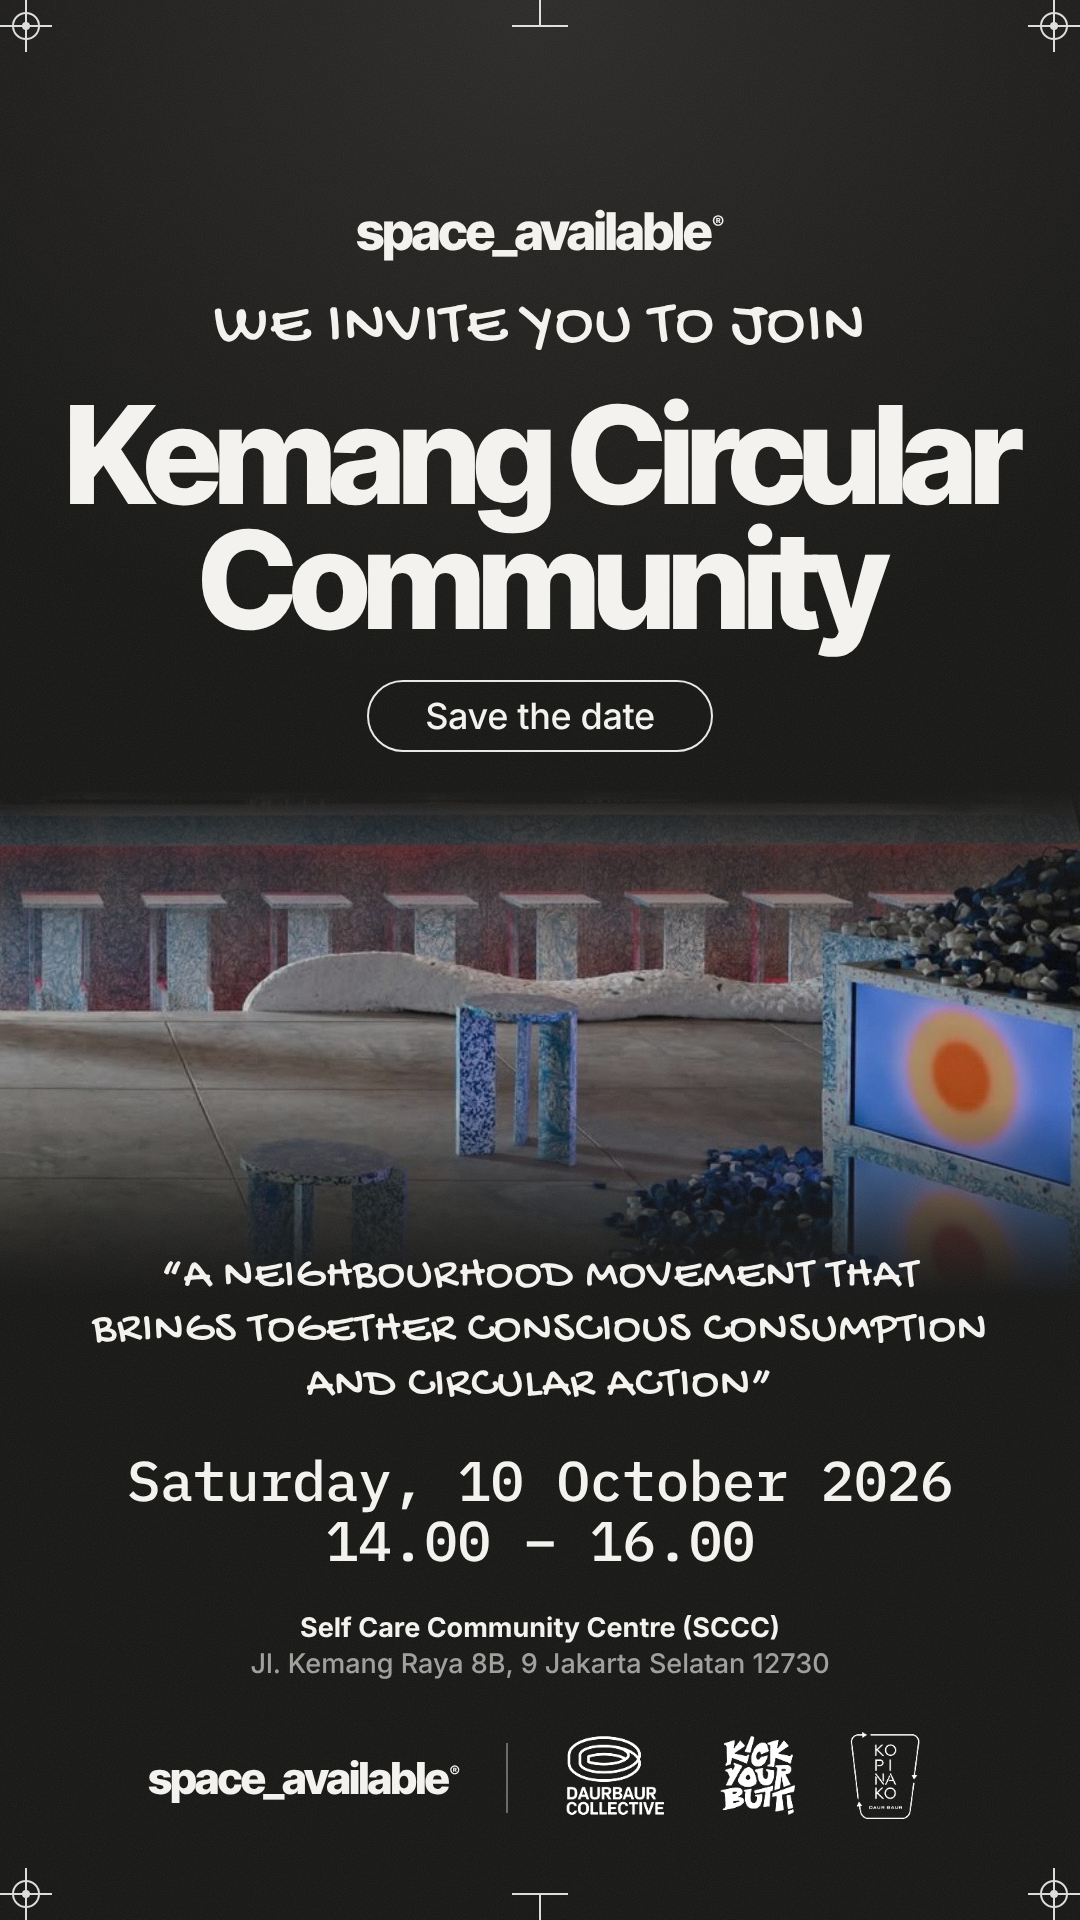
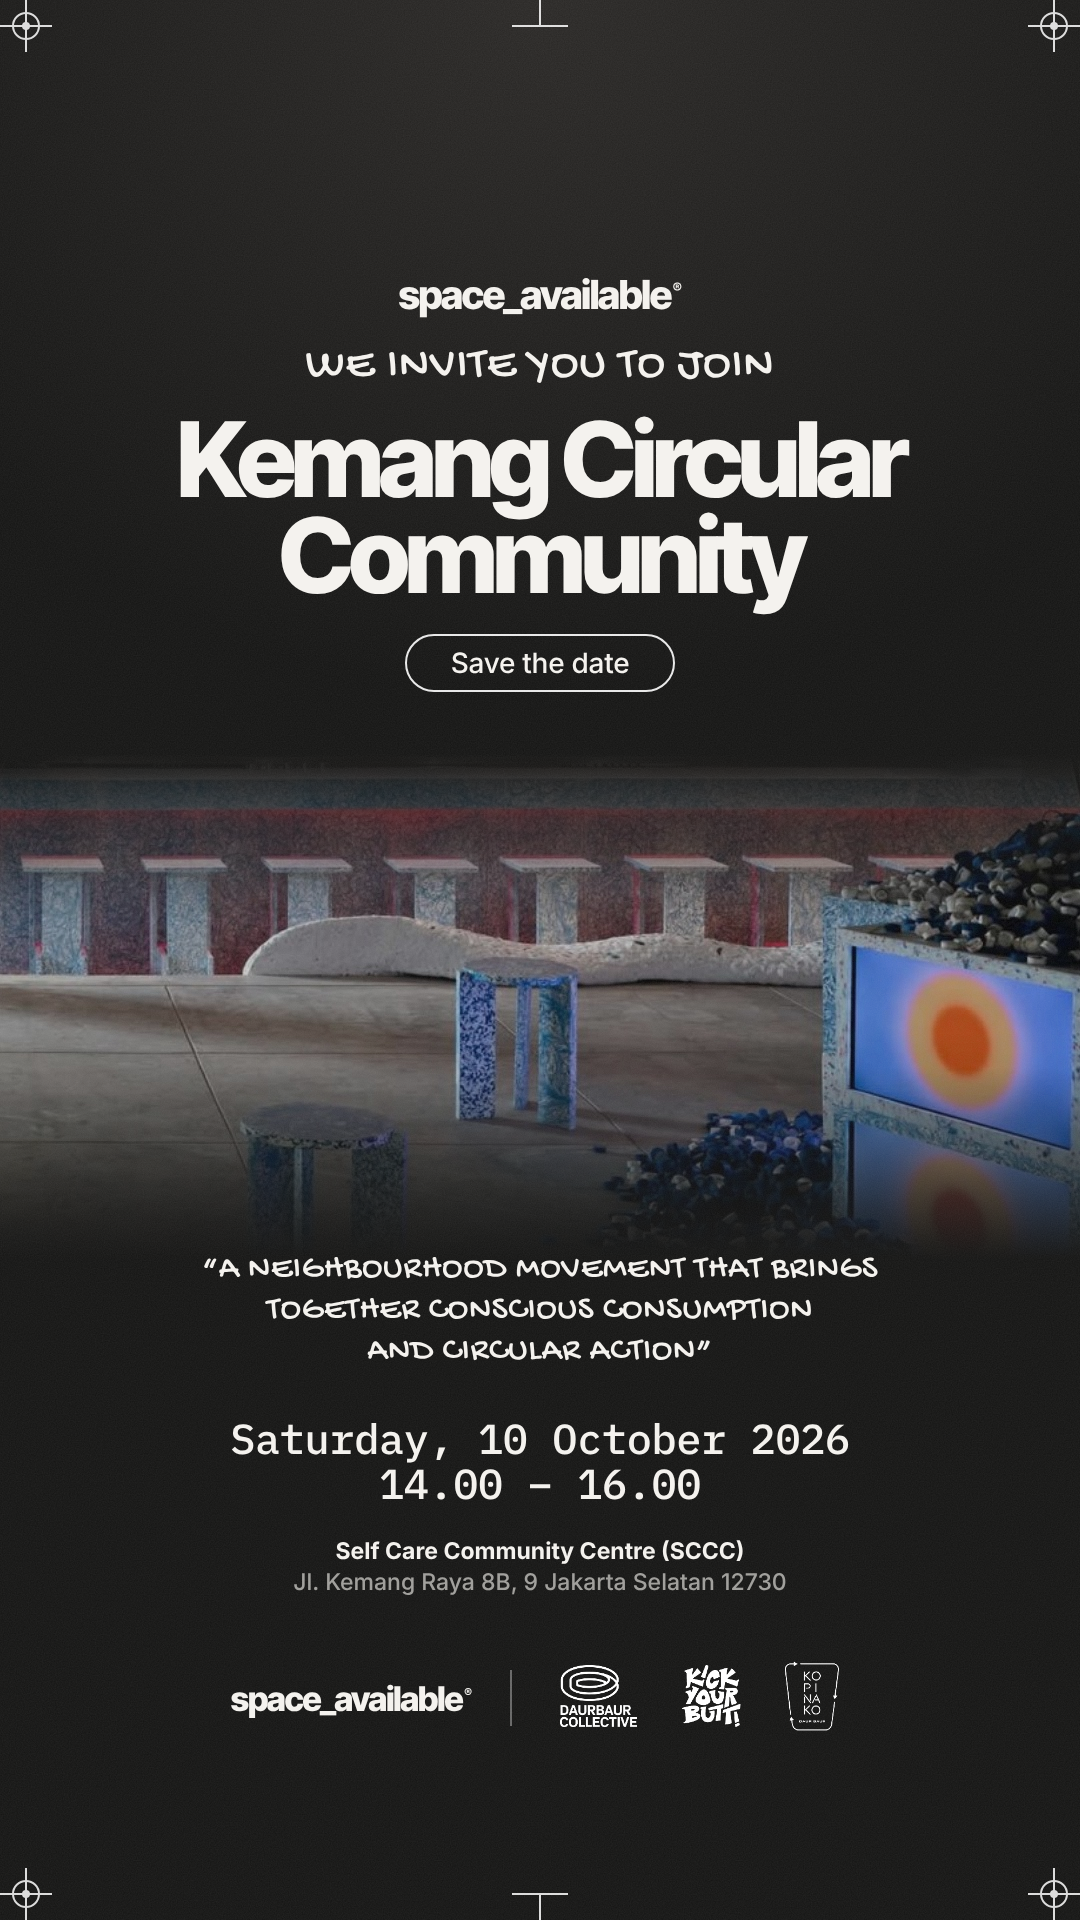
Invite: scale down text sizes
Claude-Session: https://claude.ai/code/session_01MkepNVKUBixwkwPGrG164Z

Changed region(s): [[0.0, 0.0938, 1.0, 0.9688], [0.7944, 0.9062, 0.8556, 0.9375]]

diff --git a/invite/kemang-circular-invite.html b/invite/kemang-circular-invite.html
@@ -13,25 +13,25 @@ body{width:1080px;height:1920px;background:var(--bg);overflow:hidden;color:var(-
 .hand{font-family:'Gochi Hand',cursive;text-transform:uppercase;letter-spacing:.02em}
 .mono{font-family:'IBM Plex Mono',monospace}
 
-.brand{top:200px;font-size:52px}
-.invite{top:290px;font-size:64px}
-.title{top:392px;font-family:'Inter Tight';font-weight:800;font-size:136px;line-height:.92;letter-spacing:-.055em}
-.pill{top:680px;display:flex;justify-content:center}
-.pill span{border:2.5px solid rgba(255,255,255,.9);border-radius:999px;padding:12px 56px;font-size:36px;font-weight:500;letter-spacing:-.01em}
+.brand{top:270px;font-size:40px}
+.invite{top:340px;font-size:46px}
+.title{top:412px;font-family:'Inter Tight';font-weight:800;font-size:104px;line-height:.92;letter-spacing:-.055em}
+.pill{top:634px;display:flex;justify-content:center}
+.pill span{border:2.5px solid rgba(255,255,255,.9);border-radius:999px;padding:10px 44px;font-size:28px;font-weight:500;letter-spacing:-.01em}
 
-.photo{position:absolute;left:0;top:790px;width:1080px;height:505px;
+.photo{position:absolute;left:0;top:754px;width:1080px;height:505px;
  background:url(assets/bar.jpg) center/cover no-repeat}
 .photo::after{content:"";position:absolute;inset:0;
  background:linear-gradient(to bottom,var(--bg) 0%,rgba(20,20,19,.55) 14%,rgba(20,20,19,0) 34%,rgba(20,20,19,0) 62%,var(--bg) 100%)}
 
-.quote{top:1250px;font-size:46px;line-height:1.18;padding:0 90px}
-.date{top:1450px;font-size:56px;line-height:1.08;letter-spacing:-.01em;font-weight:500}
-.venue{top:1610px;font-size:27px;line-height:1.35;color:var(--dim);font-weight:500}
+.quote{top:1250px;font-size:34px;line-height:1.2;padding:0 60px}
+.date{top:1416px;font-size:42px;line-height:1.08;letter-spacing:-.01em;font-weight:500}
+.venue{top:1536px;font-size:23px;line-height:1.35;color:var(--dim);font-weight:500}
 .venue b{color:var(--fg);font-weight:700}
-.partners{top:1730px;display:flex;justify-content:center;align-items:center;gap:46px}
-.partners .mark{font-size:44px}
-.partners img{height:96px;display:block}
-.partners i{width:2px;height:70px;background:rgba(255,255,255,.35)}
+.partners{top:1660px;display:flex;justify-content:center;align-items:center;gap:38px}
+.partners .mark{font-size:34px}
+.partners img{height:76px;display:block}
+.partners i{width:2px;height:56px;background:rgba(255,255,255,.35)}
 svg.layer{position:absolute;inset:0;pointer-events:none}
 </style></head>
 <body><div class="poster">
@@ -60,7 +60,7 @@ svg.layer{position:absolute;inset:0;pointer-events:none}
 <div class="abs title">Kemang Circular<br>Community</div>
 <div class="abs pill"><span>Save the date</span></div>
 
-<div class="abs quote hand">“A neighbourhood movement that brings together conscious consumption and circular action”</div>
+<div class="abs quote hand">“A neighbourhood movement that brings<br>together conscious consumption<br>and circular action”</div>
 
 <div class="abs date mono">Saturday, 10 October 2026<br>14.00 – 16.00</div>
 
